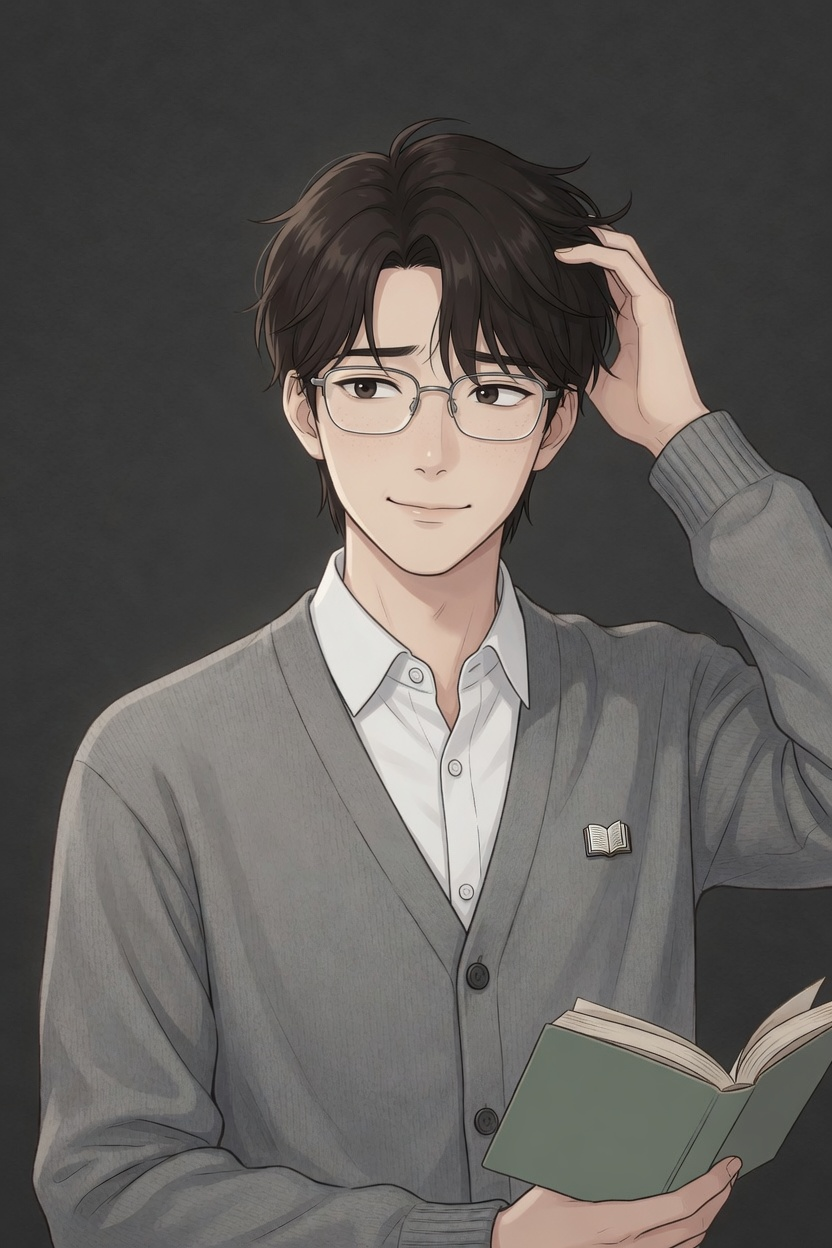
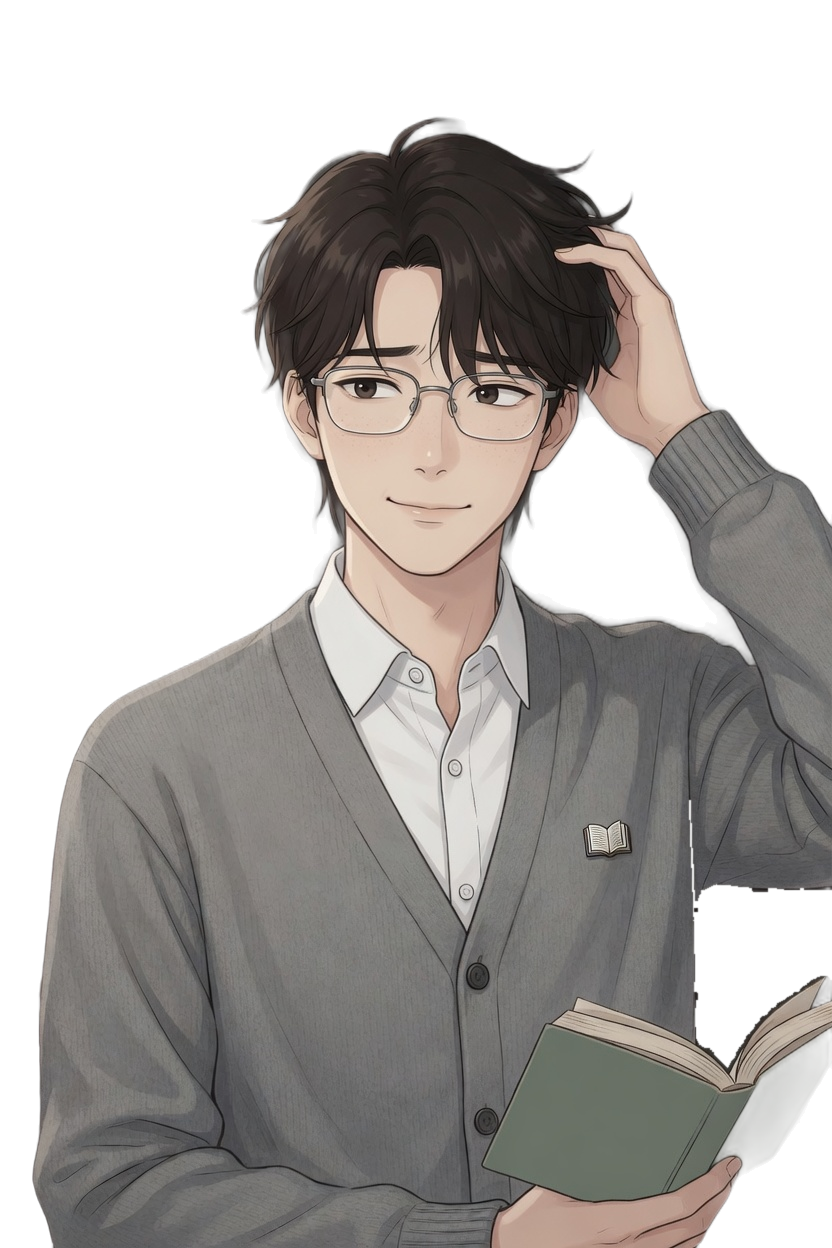
fix: remove gray backgrounds from Junho sprites

diff --git a/index-pt.html b/index-pt.html
@@ -36,7 +36,7 @@
         };
     </script>
     <script src="assets/js/browser-check.js?v=2.9.8" defer></script>
-    <script src="assets/js/modal-accessibility.js?v=2.9.201" defer></script>
+    <script src="assets/js/modal-accessibility.js?v=2.9.202" defer></script>
     <meta name="viewport"
         content="width=device-width, initial-scale=1.0, maximum-scale=1.0, user-scalable=no, viewport-fit=cover">
     <meta http-equiv="Cache-Control" content="no-cache, no-store, must-revalidate">
@@ -1001,7 +1001,7 @@
                 <a href="/seo/visual-novel-romance-gratis" style="color: #ffb6c1; margin: 0 6px;">Visual novel de romance grátis</a>
             </nav>
             <p style="color: #ffb6c1;">Consultoria: Yujin Kim, Sanghun Lee</p>
-            <p style="opacity: 0.7;">© 2026 ArcherLab. Todos os direitos reservados. (v2.9.201)</p>
+            <p style="opacity: 0.7;">© 2026 ArcherLab. Todos os direitos reservados. (v2.9.202)</p>
         </div>
     </div>
 
@@ -1250,7 +1250,7 @@
     <script>window.preventAutoStart = true;</script>
 
     <!-- Game Scripts (Dynamic Loader) -->
-<script data-cupid-entry-script="true" src="assets/js/loaders/game-loader.js?v=2.9.201"></script>
+<script data-cupid-entry-script="true" src="assets/js/loaders/game-loader.js?v=2.9.202"></script>
 
     <script>
         // Initialize SoundManager + Enable Buttons (게임 스크립트 로드 완료 후)

diff --git a/index-ja.html b/index-ja.html
@@ -36,7 +36,7 @@
         };
     </script>
     <script src="assets/js/browser-check.js?v=2.9.8" defer></script>
-    <script src="assets/js/modal-accessibility.js?v=2.9.201" defer></script>
+    <script src="assets/js/modal-accessibility.js?v=2.9.202" defer></script>
     <meta name="viewport"
         content="width=device-width, initial-scale=1.0, maximum-scale=1.0, user-scalable=no, viewport-fit=cover">
     <meta http-equiv="Cache-Control" content="no-cache, no-store, must-revalidate">
@@ -1001,7 +1001,7 @@
                 <a href="/seo/browser-otome-game-ja" style="color: #ffb6c1; margin: 0 6px;">ブラウザ恋愛ゲーム</a>
             </nav>
             <p style="color: #ffb6c1;">アドバイザー：Yujin Kim、Sanghun Lee</p>
-            <p style="opacity: 0.7;">© 2026 ArcherLab. All rights reserved. (v2.9.201)</p>
+            <p style="opacity: 0.7;">© 2026 ArcherLab. All rights reserved. (v2.9.202)</p>
         </div>
     </div>
 
@@ -1250,7 +1250,7 @@
     <script>window.preventAutoStart = true;</script>
 
     <!-- Game Scripts (Dynamic Loader) -->
-<script data-cupid-entry-script="true" src="assets/js/loaders/game-loader.js?v=2.9.201"></script>
+<script data-cupid-entry-script="true" src="assets/js/loaders/game-loader.js?v=2.9.202"></script>
 
     <script>
         // Initialize SoundManager + Enable Buttons (게임 스크립트 로드 완료 후)

diff --git a/index-es.html b/index-es.html
@@ -36,7 +36,7 @@
         };
     </script>
     <script src="assets/js/browser-check.js?v=2.9.8" defer></script>
-    <script src="assets/js/modal-accessibility.js?v=2.9.201" defer></script>
+    <script src="assets/js/modal-accessibility.js?v=2.9.202" defer></script>
     <meta name="viewport"
         content="width=device-width, initial-scale=1.0, maximum-scale=1.0, user-scalable=no, viewport-fit=cover">
     <meta http-equiv="Cache-Control" content="no-cache, no-store, must-revalidate">
@@ -1001,7 +1001,7 @@
                 <a href="/seo/juego-citas-online" style="color: #ffb6c1; margin: 0 6px;">Juego de citas online</a>
             </nav>
             <p style="color: #ffb6c1;">Asesores: Yujin Kim, Sanghun Lee</p>
-            <p style="opacity: 0.7;">© 2026 ArcherLab. Todos los derechos reservados. (v2.9.201)</p>
+            <p style="opacity: 0.7;">© 2026 ArcherLab. Todos los derechos reservados. (v2.9.202)</p>
         </div>
     </div>
 
@@ -1251,7 +1251,7 @@
     <script>window.preventAutoStart = true;</script>
 
     <!-- Game Scripts (Dynamic Loader) -->
-<script data-cupid-entry-script="true" src="assets/js/loaders/game-loader.js?v=2.9.201"></script>
+<script data-cupid-entry-script="true" src="assets/js/loaders/game-loader.js?v=2.9.202"></script>
 
     <script>
         // Initialize SoundManager + Enable Buttons (게임 스크립트 로드 완료 후)

diff --git a/index-en.html b/index-en.html
@@ -36,7 +36,7 @@
         };
     </script>
     <script src="assets/js/browser-check.js?v=2.9.8" defer></script>
-    <script src="assets/js/modal-accessibility.js?v=2.9.201" defer></script>
+    <script src="assets/js/modal-accessibility.js?v=2.9.202" defer></script>
     <meta name="viewport"
         content="width=device-width, initial-scale=1.0, maximum-scale=1.0, user-scalable=no, viewport-fit=cover">
     <meta http-equiv="Cache-Control" content="no-cache, no-store, must-revalidate">
@@ -1001,7 +1001,7 @@
                 <a href="/seo/play-dating-simulator-online" style="color: #ffb6c1; margin: 0 6px;">play dating simulator online</a>
             </nav>
             <p style="color: #ffb6c1;">Advisors: Yujin Kim, Sanghun Lee</p>
-            <p style="opacity: 0.7;">© 2026 ArcherLab. All rights reserved. (v2.9.201)</p>
+            <p style="opacity: 0.7;">© 2026 ArcherLab. All rights reserved. (v2.9.202)</p>
         </div>
     </div>
 
@@ -1251,7 +1251,7 @@
     <script>window.preventAutoStart = true;</script>
 
     <!-- Game Scripts (Dynamic Loader) -->
-<script data-cupid-entry-script="true" src="assets/js/loaders/game-loader.js?v=2.9.201"></script>
+<script data-cupid-entry-script="true" src="assets/js/loaders/game-loader.js?v=2.9.202"></script>
 
     <script>
         // Initialize SoundManager + Enable Buttons (게임 스크립트 로드 완료 후)

diff --git a/index-fr.html b/index-fr.html
@@ -36,7 +36,7 @@
         };
     </script>
     <script src="assets/js/browser-check.js?v=2.9.8" defer></script>
-    <script src="assets/js/modal-accessibility.js?v=2.9.201" defer></script>
+    <script src="assets/js/modal-accessibility.js?v=2.9.202" defer></script>
     <meta name="viewport"
         content="width=device-width, initial-scale=1.0, maximum-scale=1.0, user-scalable=no, viewport-fit=cover">
     <meta http-equiv="Cache-Control" content="no-cache, no-store, must-revalidate">
@@ -1001,7 +1001,7 @@
                 <a href="/seo/jeu-drague-en-ligne" style="color: #ffb6c1; margin: 0 6px;">Jeu de drague en ligne</a>
             </nav>
             <p style="color: #ffb6c1;">Conseillers : Yujin Kim, Sanghun Lee</p>
-            <p style="opacity: 0.7;">© 2026 ArcherLab. Tous droits réservés. (v2.9.201)</p>
+            <p style="opacity: 0.7;">© 2026 ArcherLab. Tous droits réservés. (v2.9.202)</p>
         </div>
     </div>
 
@@ -1250,7 +1250,7 @@
     <script>window.preventAutoStart = true;</script>
 
     <!-- Game Scripts (Dynamic Loader) -->
-<script data-cupid-entry-script="true" src="assets/js/loaders/game-loader.js?v=2.9.201"></script>
+<script data-cupid-entry-script="true" src="assets/js/loaders/game-loader.js?v=2.9.202"></script>
 
     <script>
         // Initialize SoundManager + Enable Buttons (게임 스크립트 로드 완료 후)

diff --git a/index-de.html b/index-de.html
@@ -36,7 +36,7 @@
         };
     </script>
     <script src="assets/js/browser-check.js?v=2.9.8" defer></script>
-    <script src="assets/js/modal-accessibility.js?v=2.9.201" defer></script>
+    <script src="assets/js/modal-accessibility.js?v=2.9.202" defer></script>
     <meta name="viewport"
         content="width=device-width, initial-scale=1.0, maximum-scale=1.0, user-scalable=no, viewport-fit=cover">
     <meta http-equiv="Cache-Control" content="no-cache, no-store, must-revalidate">
@@ -1001,7 +1001,7 @@
                 <a href="/seo/dating-spiel-online" style="color: #ffb6c1; margin: 0 6px;">Dating Spiel online</a>
             </nav>
             <p style="color: #ffb6c1;">Beratung: Yujin Kim, Sanghun Lee</p>
-            <p style="opacity: 0.7;">© 2026 ArcherLab. Alle Rechte vorbehalten. (v2.9.201)</p>
+            <p style="opacity: 0.7;">© 2026 ArcherLab. Alle Rechte vorbehalten. (v2.9.202)</p>
         </div>
     </div>
 
@@ -1250,7 +1250,7 @@
     <script>window.preventAutoStart = true;</script>
 
     <!-- Game Scripts (Dynamic Loader) -->
-<script data-cupid-entry-script="true" src="assets/js/loaders/game-loader.js?v=2.9.201"></script>
+<script data-cupid-entry-script="true" src="assets/js/loaders/game-loader.js?v=2.9.202"></script>
 
     <script>
         // Initialize SoundManager + Enable Buttons (게임 스크립트 로드 완료 후)

diff --git a/index.html b/index.html
@@ -44,7 +44,7 @@
         };
     </script>
     <script src="assets/js/browser-check.js?v=2.9.8" defer></script>
-    <script src="assets/js/modal-accessibility.js?v=2.9.201" defer></script>
+    <script src="assets/js/modal-accessibility.js?v=2.9.202" defer></script>
     <meta name="viewport"
         content="width=device-width, initial-scale=1.0, maximum-scale=1.0, user-scalable=no, viewport-fit=cover">
     <meta http-equiv="Cache-Control" content="no-cache, no-store, must-revalidate">
@@ -1009,7 +1009,7 @@
                 <a href="/seo/misinsi-muryo" style="color: #ffb6c1; margin: 0 6px;">미연시 무료</a>
             </nav>
             <p style="color: #ffb6c1;">Advisor: 김유진 프로, 이상훈 프로</p>
-            <p style="opacity: 0.7;">© 2026 ArcherLab. All rights reserved. (v2.9.201)</p>
+            <p style="opacity: 0.7;">© 2026 ArcherLab. All rights reserved. (v2.9.202)</p>
         </div>
     </div>
 
@@ -1263,7 +1263,7 @@
     </script>
 
     <!-- 게임 스크립트 (동적 로더) -->
-<script data-cupid-entry-script="true" src="assets/js/loaders/game-loader.js?v=2.9.201"></script>
+<script data-cupid-entry-script="true" src="assets/js/loaders/game-loader.js?v=2.9.202"></script>
 
     <script>
         // Initialize SoundManager + Enable Buttons (게임 스크립트 로드 완료 후)

diff --git a/game-en.html b/game-en.html
@@ -32,8 +32,8 @@
     <link rel="preconnect" href="https://cdn.jsdelivr.net" crossorigin>
     <link rel="dns-prefetch" href="https://chatbot-api.yama5993.workers.dev">
     <link rel="preload" href="assets/css/style.css?v=2.9.7" as="style">
-    <link rel="preload" href="assets/js/sound.js?v=2.9.201" as="script">
-    <link rel="preload" href="assets/js/loaders/game-loader.js?v=2.9.201" as="script">
+    <link rel="preload" href="assets/js/sound.js?v=2.9.202" as="script">
+    <link rel="preload" href="assets/js/loaders/game-loader.js?v=2.9.202" as="script">
 
     <link rel="stylesheet" href="assets/css/style.css?v=2.9.7">
     <link rel="stylesheet" as="style" crossorigin
@@ -257,7 +257,7 @@
     </div>
 
     <!-- Game Scripts (Dynamic Loader) -->
-<script data-cupid-entry-script="true" src="assets/js/loaders/game-loader.js?v=2.9.201"></script>
+<script data-cupid-entry-script="true" src="assets/js/loaders/game-loader.js?v=2.9.202"></script>
     <script>
         window.addEventListener('load', function () {
             var wcs_script = document.createElement('script');

diff --git a/game.html b/game.html
@@ -32,8 +32,8 @@
     <link rel="preconnect" href="https://cdn.jsdelivr.net" crossorigin>
     <link rel="dns-prefetch" href="https://chatbot-api.yama5993.workers.dev">
     <link rel="preload" href="assets/css/style.css?v=2.9.7" as="style">
-<link rel="preload" href="assets/js/sound.js?v=2.9.201" as="script">
-<link rel="preload" href="assets/js/loaders/game-loader.js?v=2.9.201" as="script">
+<link rel="preload" href="assets/js/sound.js?v=2.9.202" as="script">
+<link rel="preload" href="assets/js/loaders/game-loader.js?v=2.9.202" as="script">
 
     <link rel="stylesheet" href="assets/css/style.css?v=2.9.7">
     <link rel="stylesheet" as="style" crossorigin
@@ -255,7 +255,7 @@
     </div>
 
     <!-- 게임 스크립트 (동적 로더) -->
-<script data-cupid-entry-script="true" src="assets/js/loaders/game-loader.js?v=2.9.201"></script>
+<script data-cupid-entry-script="true" src="assets/js/loaders/game-loader.js?v=2.9.202"></script>
     <script>
         window.addEventListener('load', function () {
             var wcs_script = document.createElement('script');

diff --git a/game-de.html b/game-de.html
@@ -31,8 +31,8 @@
     <link rel="preconnect" href="https://cdn.jsdelivr.net" crossorigin>
     <link rel="dns-prefetch" href="https://chatbot-api.yama5993.workers.dev">
     <link rel="preload" href="assets/css/style.css?v=2.9.7" as="style">
-<link rel="preload" href="assets/js/loaders/game-loader.js?v=2.9.201" as="script">
-<link rel="preload" href="assets/js/sound.js?v=2.9.201" as="script">
+<link rel="preload" href="assets/js/loaders/game-loader.js?v=2.9.202" as="script">
+<link rel="preload" href="assets/js/sound.js?v=2.9.202" as="script">
 
     <link rel="stylesheet" href="assets/css/style.css?v=2.9.7">
     <link rel="stylesheet" as="style" crossorigin
@@ -254,7 +254,7 @@
     </div>
 
     <!-- Game Scripts (Dynamic Loader) -->
-<script data-cupid-entry-script="true" src="assets/js/loaders/game-loader.js?v=2.9.201"></script>
+<script data-cupid-entry-script="true" src="assets/js/loaders/game-loader.js?v=2.9.202"></script>
     <script>
         window.addEventListener('load', function () {
             var wcs_script = document.createElement('script');

diff --git a/game-es.html b/game-es.html
@@ -31,8 +31,8 @@
     <link rel="preconnect" href="https://cdn.jsdelivr.net" crossorigin>
     <link rel="dns-prefetch" href="https://chatbot-api.yama5993.workers.dev">
     <link rel="preload" href="assets/css/style.css?v=2.9.7" as="style">
-<link rel="preload" href="assets/js/loaders/game-loader.js?v=2.9.201" as="script">
-<link rel="preload" href="assets/js/sound.js?v=2.9.201" as="script">
+<link rel="preload" href="assets/js/loaders/game-loader.js?v=2.9.202" as="script">
+<link rel="preload" href="assets/js/sound.js?v=2.9.202" as="script">
 
     <link rel="stylesheet" href="assets/css/style.css?v=2.9.7">
     <link rel="stylesheet" as="style" crossorigin
@@ -254,7 +254,7 @@
     </div>
 
     <!-- Game Scripts (Dynamic Loader) -->
-<script data-cupid-entry-script="true" src="assets/js/loaders/game-loader.js?v=2.9.201"></script>
+<script data-cupid-entry-script="true" src="assets/js/loaders/game-loader.js?v=2.9.202"></script>
     <script>
         window.addEventListener('load', function () {
             var wcs_script = document.createElement('script');

diff --git a/game-fr.html b/game-fr.html
@@ -31,8 +31,8 @@
     <link rel="preconnect" href="https://cdn.jsdelivr.net" crossorigin>
     <link rel="dns-prefetch" href="https://chatbot-api.yama5993.workers.dev">
     <link rel="preload" href="assets/css/style.css?v=2.9.7" as="style">
-<link rel="preload" href="assets/js/loaders/game-loader.js?v=2.9.201" as="script">
-<link rel="preload" href="assets/js/sound.js?v=2.9.201" as="script">
+<link rel="preload" href="assets/js/loaders/game-loader.js?v=2.9.202" as="script">
+<link rel="preload" href="assets/js/sound.js?v=2.9.202" as="script">
 
     <link rel="stylesheet" href="assets/css/style.css?v=2.9.7">
     <link rel="stylesheet" as="style" crossorigin
@@ -254,7 +254,7 @@
     </div>
 
     <!-- Game Scripts (Dynamic Loader) -->
-<script data-cupid-entry-script="true" src="assets/js/loaders/game-loader.js?v=2.9.201"></script>
+<script data-cupid-entry-script="true" src="assets/js/loaders/game-loader.js?v=2.9.202"></script>
     <script>
         window.addEventListener('load', function () {
             var wcs_script = document.createElement('script');
